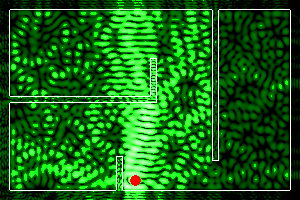
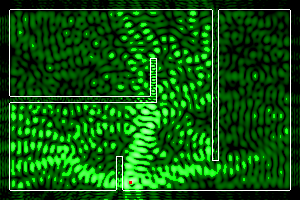
delta point source

diff --git a/power_map.py b/power_map.py
@@ -71,8 +71,8 @@ if __name__ == '__main__':
 
     parser.add_argument('input', type=str, help='Map of the walls')
 
-    parser.add_argument('-m', '--min', type=float, help='Floor value of power (in dB)', default=-90)
-    parser.add_argument('-M', '--max', type=float, help='ceil value of power (in dB)', default=-60)
+    parser.add_argument('-m', '--min', type=float, help='Floor value of power (in dB)', default=-100)
+    parser.add_argument('-M', '--max', type=float, help='ceil value of power (in dB)', default=-70)
     parser.add_argument('-p', '--power', type=float, help='power of the source (in V/m²?)', default=1)
     parser.add_argument('-f', '--frequency', type=float, help='frequency of the wave (in GHz)', default=2.4)
     parser.add_argument('-r', '--resolution', type=float, help='spacial resolution (in m)', default=0.01)
